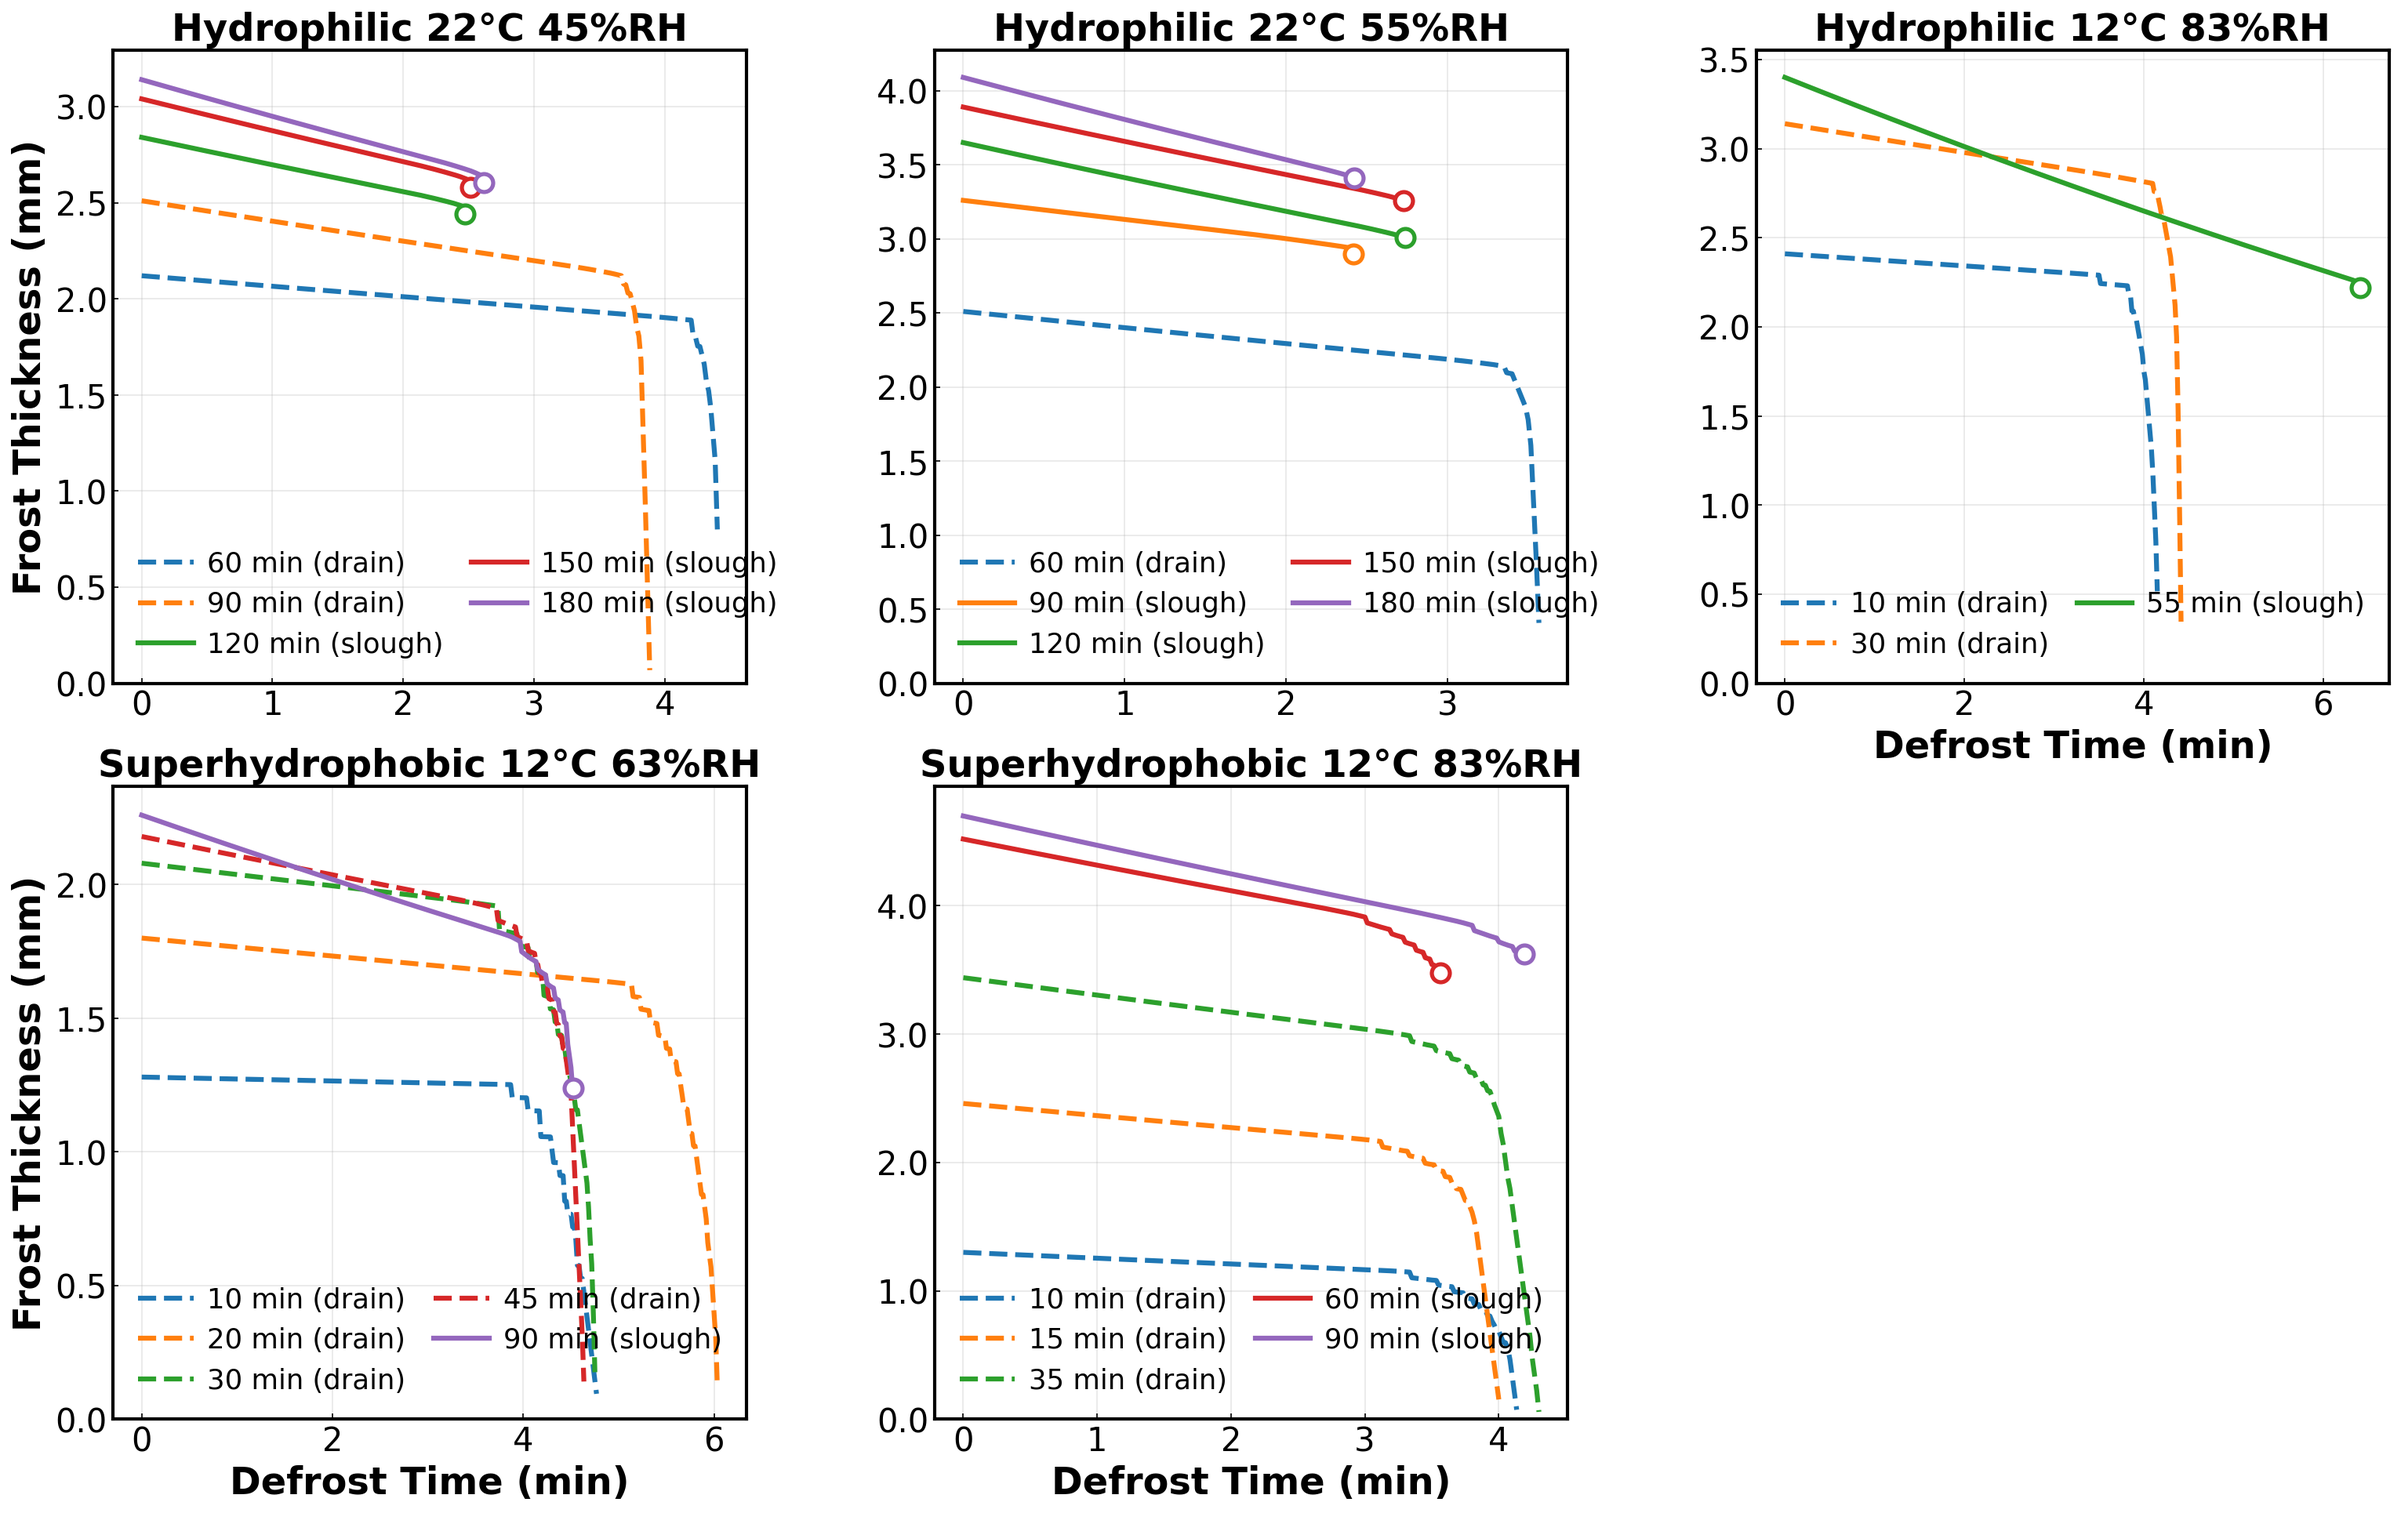
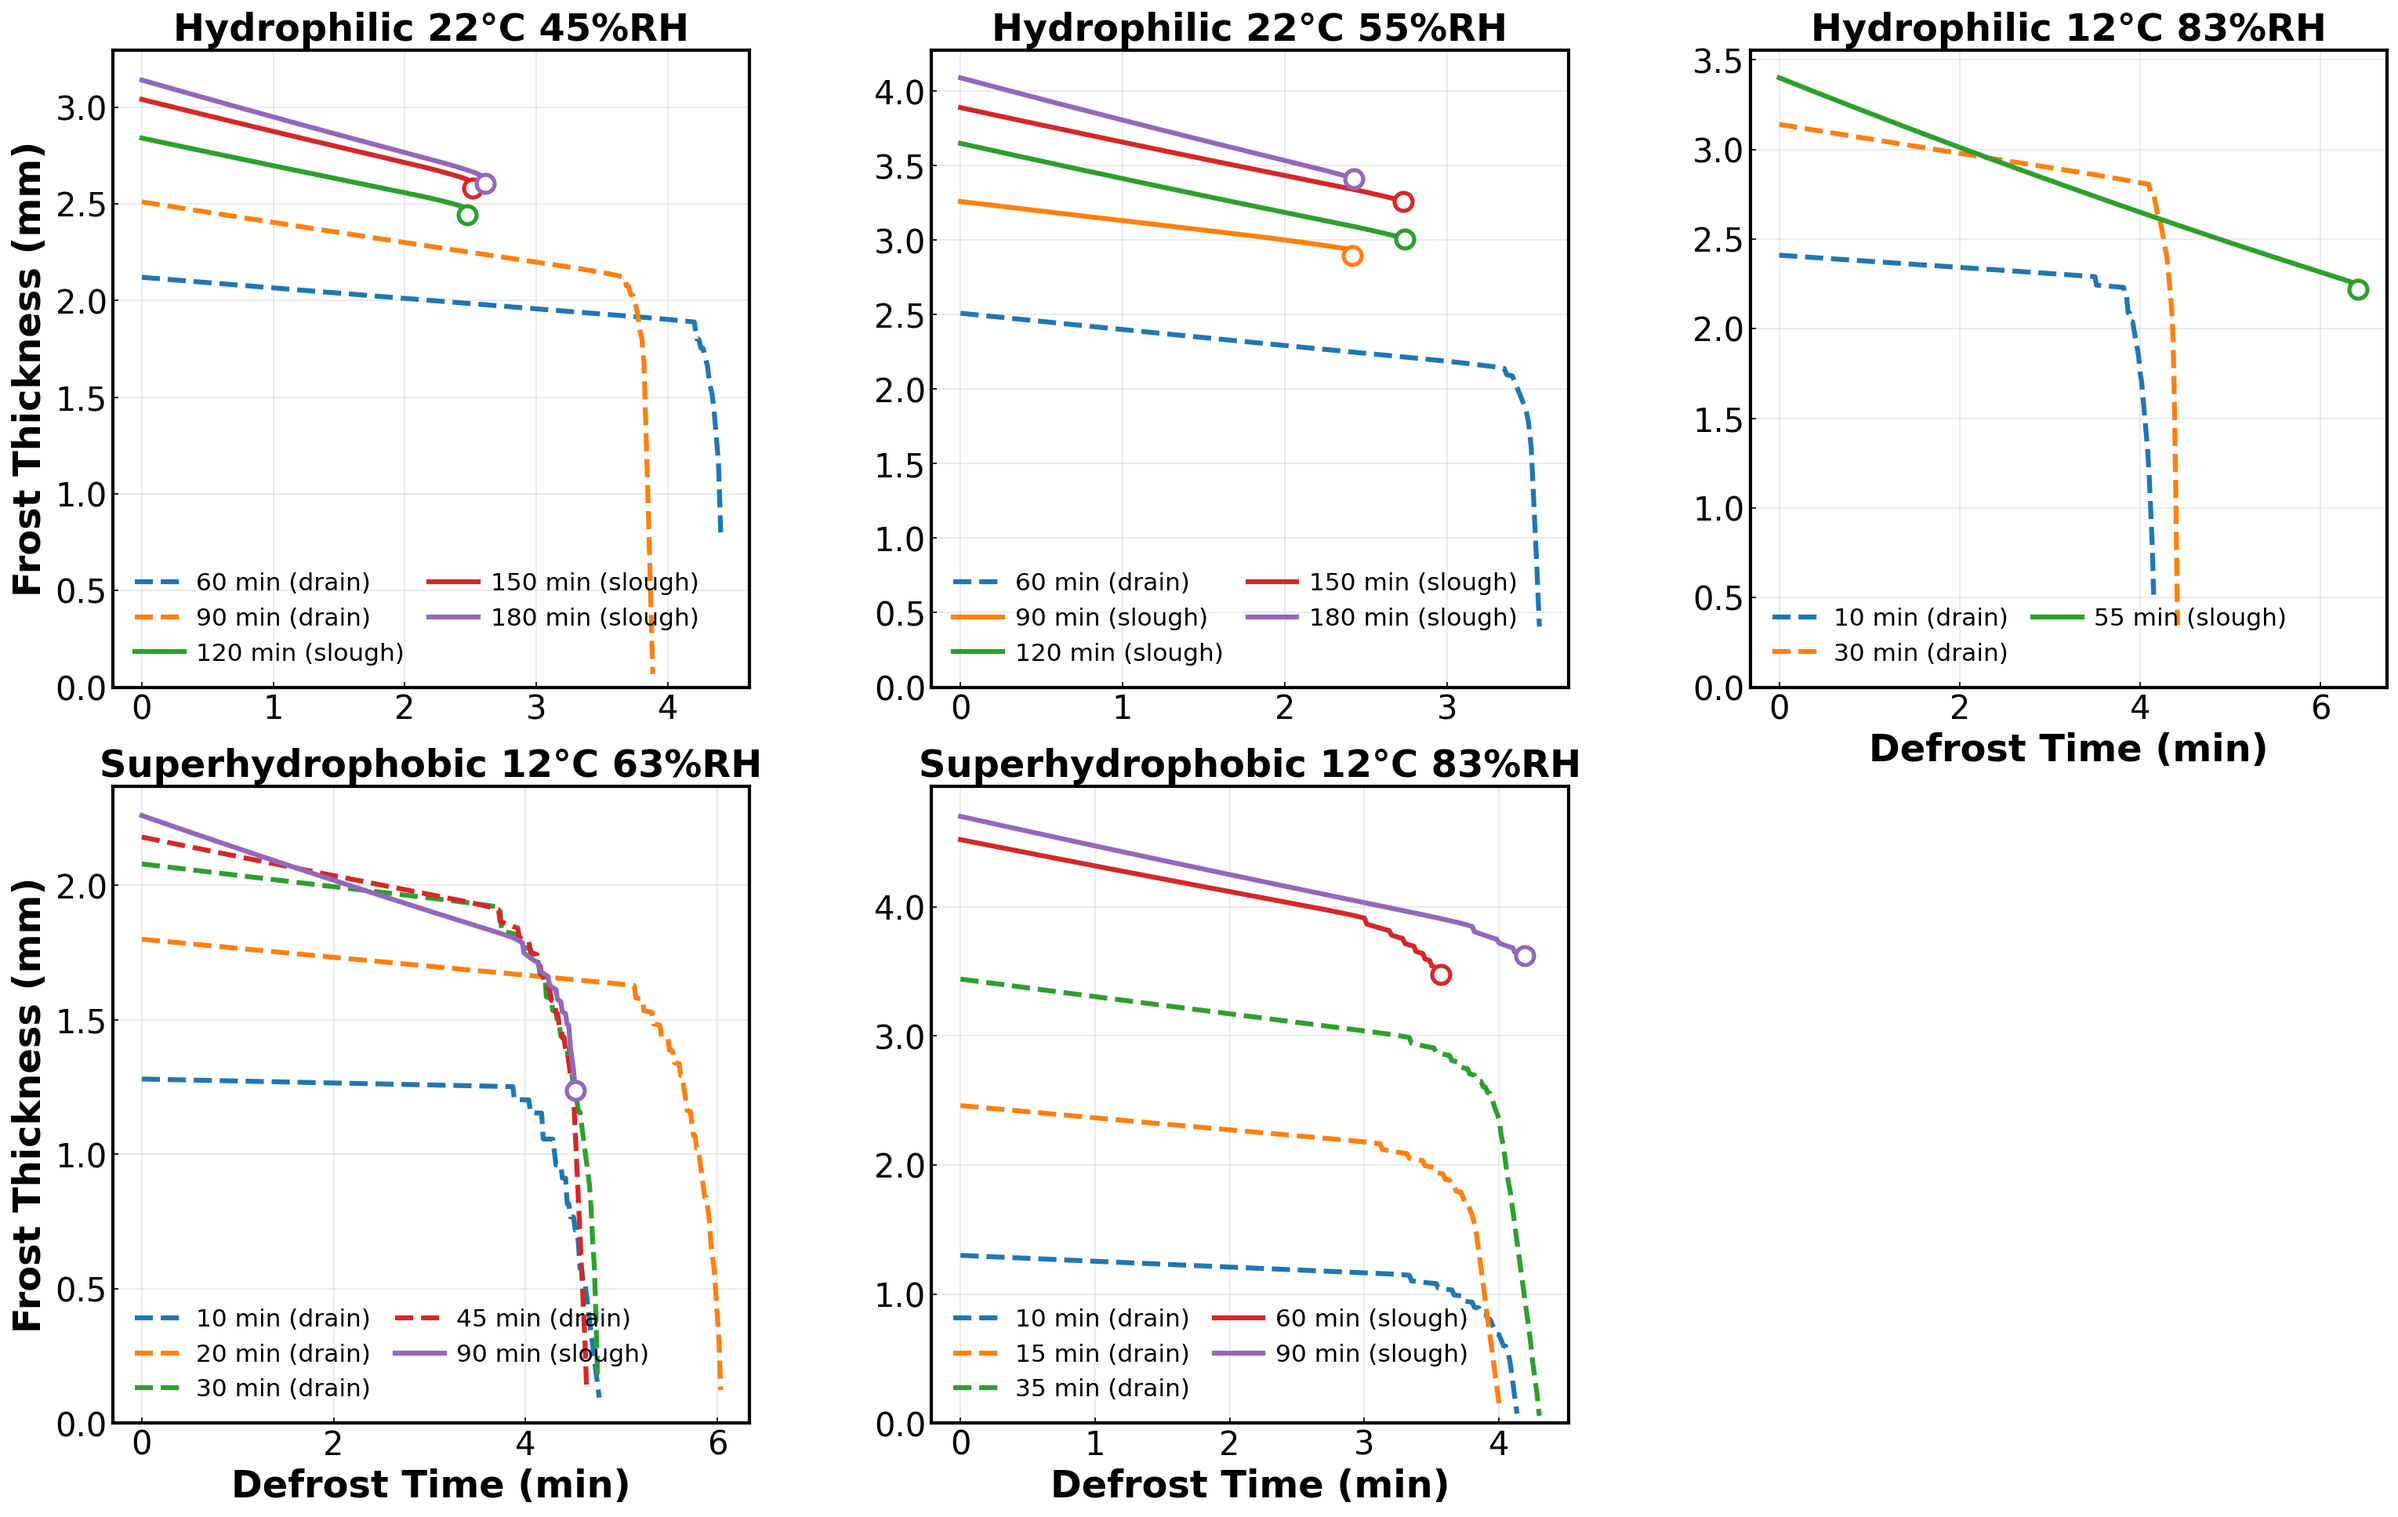
Reduce legend font to 15pt in the combined thickness figure

diff --git a/plot_defrost_thickness_comparison.py b/plot_defrost_thickness_comparison.py
@@ -427,7 +427,7 @@ def _draw_condition_panel(ax, label, cases, quantity, legend_loc='best'):
     # Two columns keep the thickness legends short so they clear the lowest
     # curve; the wall-water legends sit in empty space and stay single-column
     n_cols_legend = 2 if quantity == 'h_total' else 1
-    ax.legend(fontsize=17, frameon=False, loc=legend_loc, ncol=n_cols_legend,
+    ax.legend(fontsize=15, frameon=False, loc=legend_loc, ncol=n_cols_legend,
               columnspacing=1.0, handletextpad=0.5)
 
 
